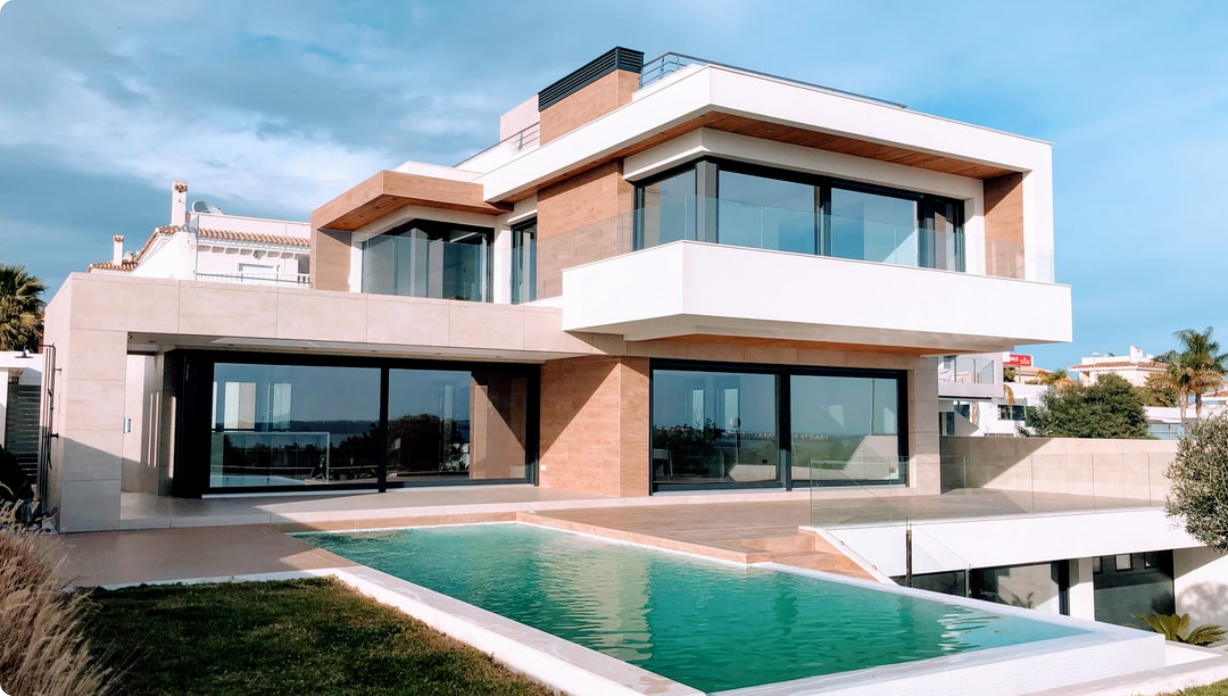
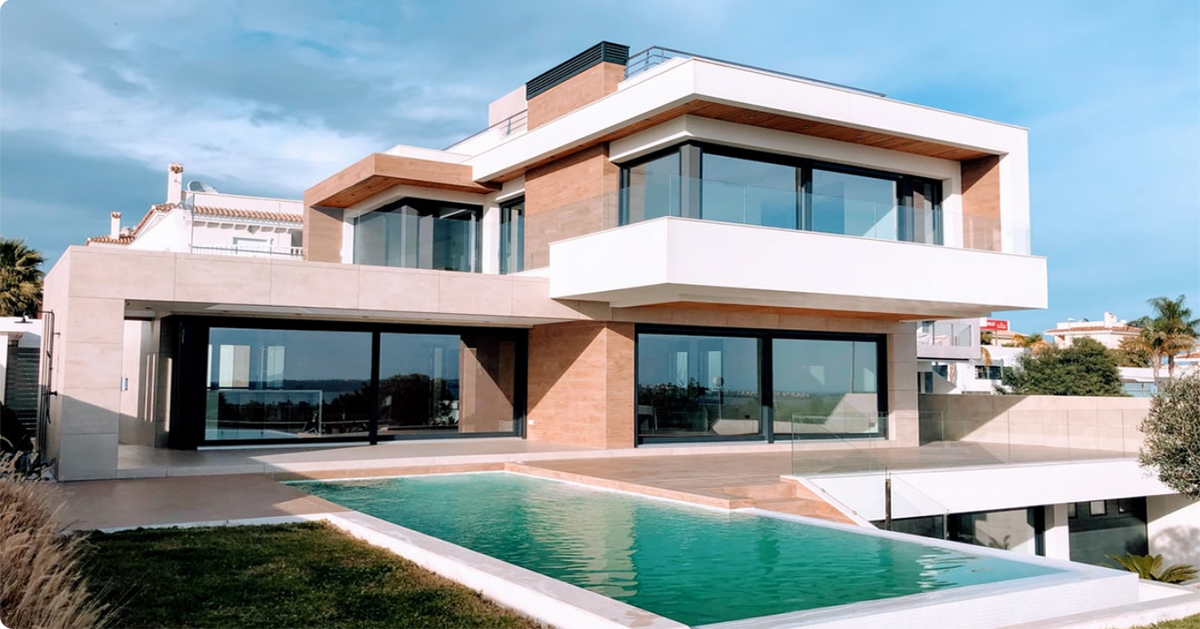
fixing the ratio image to show on whatsapp share

diff --git a/app/layout.tsx b/app/layout.tsx
@@ -13,7 +13,7 @@ export const metadata: Metadata = {
     emails:'info@propertypro.vip',
     phoneNumbers:'961 3 948 739',
     siteName:"OPD DOT VIP",
-    images:'https://opd-needed.vercel.app/hero-img.png',
+    images:'https://opd-needed.vercel.app/hero-img.jpg',
     url:'https://propertypro.vip/',
     countryName:'Lebanon'
 },
@@ -22,7 +22,7 @@ export const metadata: Metadata = {
     creator:"OPD DOT VIP",
     description:'Digital Real Estate Marketing',
     title: "OPD DOT VIP",
-    images:'https://opd-needed.vercel.app/hero-img.png',
+    images:'https://opd-needed.vercel.app/hero-img.jpg',
   }
 }
 
